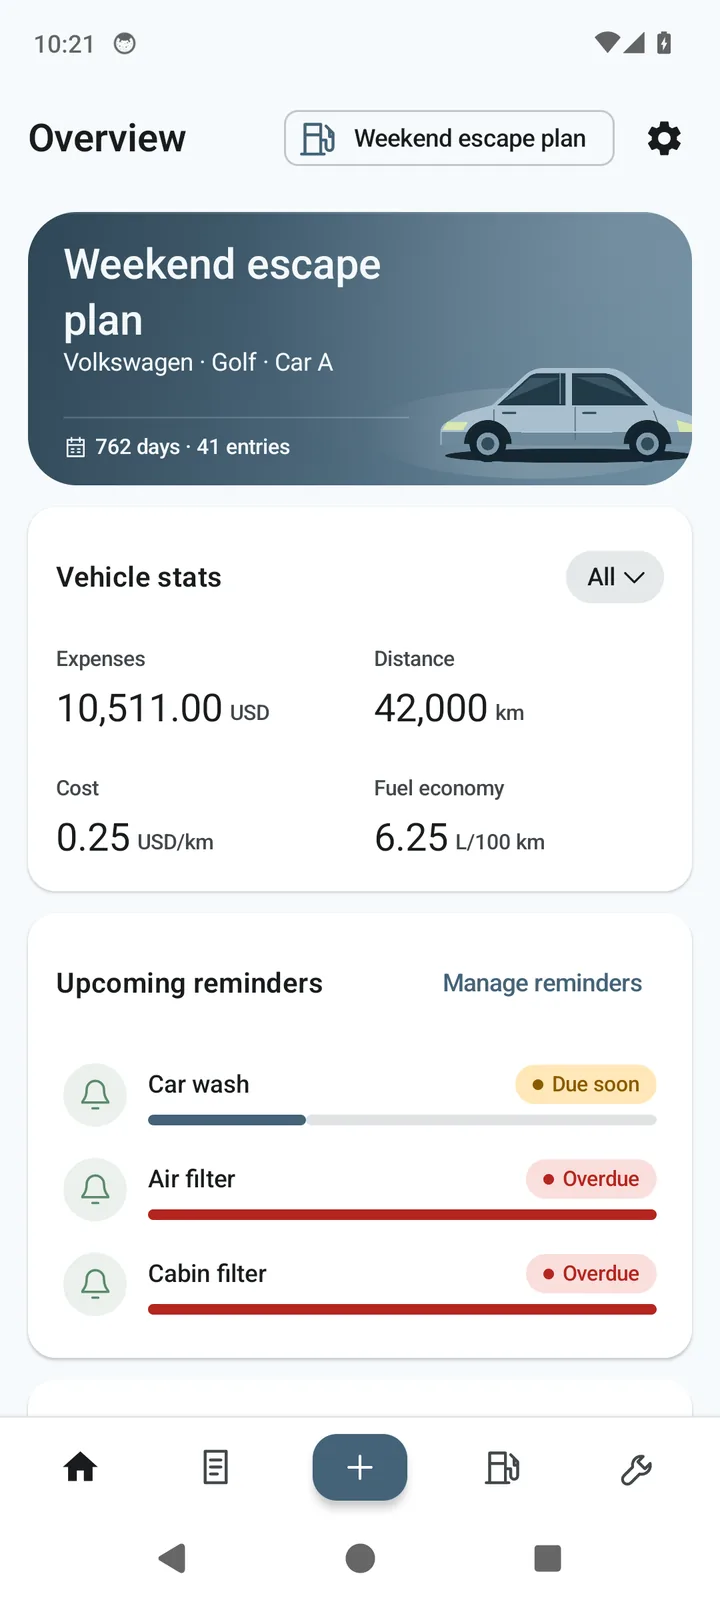
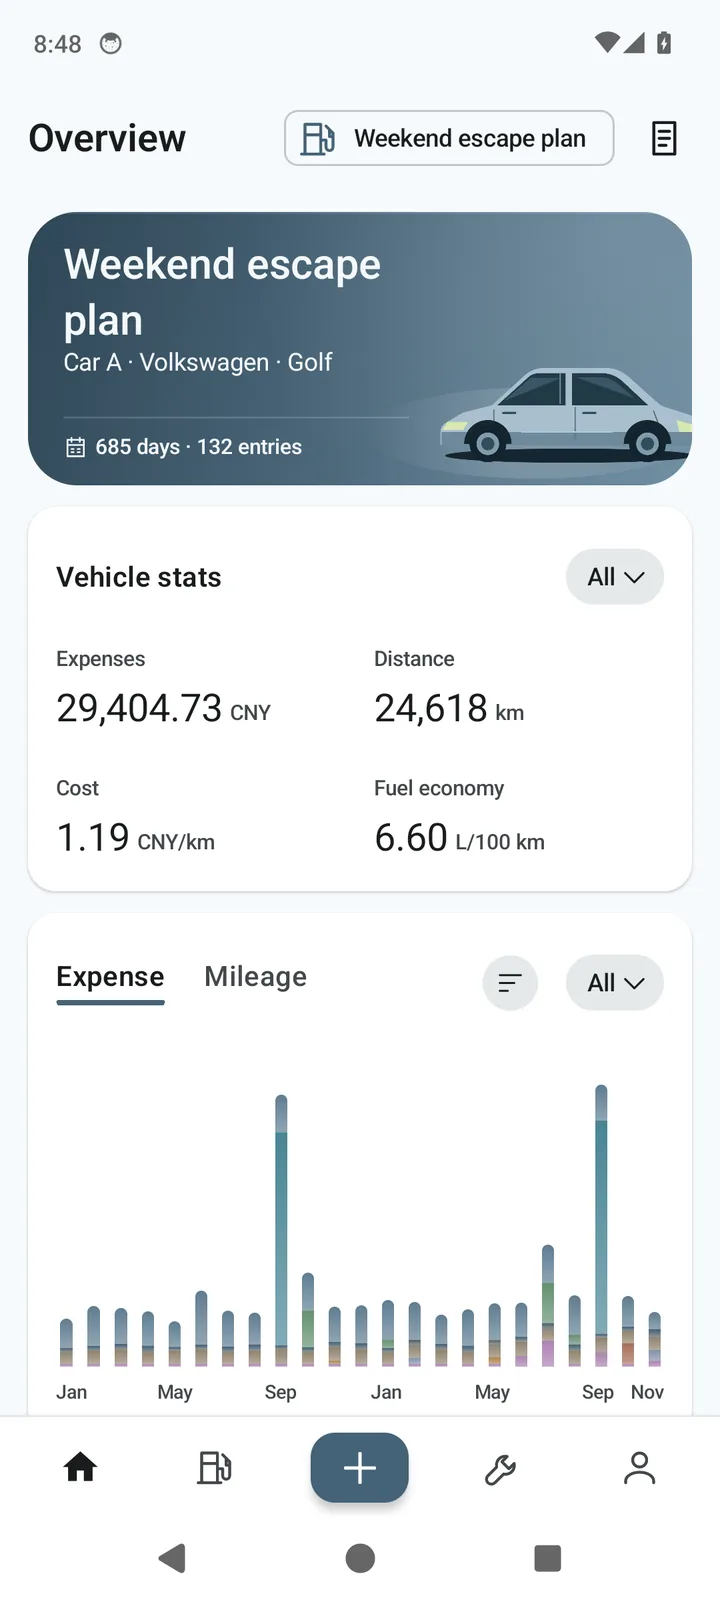
site(screens): 界面预览换成 0.44.1 实拍（中英各一套，第三张改用车报告）+ OG 重画

diff --git a/en/index.html b/en/index.html
@@ -53,7 +53,7 @@
   <link rel="icon" href="../assets/favicon-16.png" sizes="16x16" type="image/png">
   <link rel="apple-touch-icon" href="../assets/apple-touch-icon.png">
   <link rel="manifest" href="../site.webmanifest">
-  <link rel="preload" as="image" href="../assets/screens-en/dashboard.webp">
+  <link rel="preload" as="image" href="../assets/screens-en/dashboard.webp?v=20261116">
   <link rel="stylesheet" href="../assets/style.css?v=20261110c">
 
   <script type="application/ld+json">
@@ -121,7 +121,7 @@
 
         <div class="hero-visual">
           <figure class="phone phone-hero">
-            <img src="../assets/screens-en/dashboard.webp" width="720" height="1600" alt="MileNote overview screen with running costs, average fuel economy and maintenance reminders">
+            <img src="../assets/screens-en/dashboard.webp?v=20261116" width="720" height="1600" alt="MileNote overview screen with running costs, spending trend and average fuel economy">
           </figure>
         </div>
       </div>
@@ -180,7 +180,7 @@
         <div class="screen-tabs" role="tablist" aria-label="App screenshots">
           <button class="screen-tab" type="button" role="tab" aria-selected="true" data-screen="0">Overview</button>
           <button class="screen-tab" type="button" role="tab" aria-selected="false" data-screen="1">Quick entry</button>
-          <button class="screen-tab" type="button" role="tab" aria-selected="false" data-screen="2">Expenses</button>
+          <button class="screen-tab" type="button" role="tab" aria-selected="false" data-screen="2">Vehicle report</button>
           <button class="screen-tab" type="button" role="tab" aria-selected="false" data-screen="3">Maintenance</button>
         </div>
 
@@ -190,7 +190,7 @@
           </button>
           <figure class="screen-figure">
             <div class="phone phone-screen">
-              <img data-screen-img data-screen-base="../assets/screens-en/" src="../assets/screens-en/dashboard.webp" width="720" height="1600" alt="Overview screen">
+              <img data-screen-img data-screen-base="../assets/screens-en/" src="../assets/screens-en/dashboard.webp?v=20261116" width="720" height="1600" alt="Overview screen">
             </div>
             <figcaption data-screen-cap>Overview</figcaption>
           </figure>
@@ -251,6 +251,6 @@
     <span class="bar-copy">© <span id="year">2026</span> MileNote</span>
   </div>
 
-  <script src="../assets/app.js?v=20261110b" defer></script>
+  <script src="../assets/app.js?v=20261116" defer></script>
 </body>
 </html>

diff --git a/index.html b/index.html
@@ -53,7 +53,7 @@
   <link rel="icon" href="assets/favicon-16.png" sizes="16x16" type="image/png">
   <link rel="apple-touch-icon" href="assets/apple-touch-icon.png">
   <link rel="manifest" href="site.webmanifest">
-  <link rel="preload" as="image" href="assets/screens/dashboard.webp">
+  <link rel="preload" as="image" href="assets/screens/dashboard.webp?v=20261116">
   <link rel="stylesheet" href="assets/style.css?v=20261110c">
 
   <script type="application/ld+json">
@@ -121,7 +121,7 @@
 
         <div class="hero-visual">
           <figure class="phone phone-hero">
-            <img src="assets/screens/dashboard.webp" width="720" height="1600" alt="里程志「用车总览」界面：用车统计、平均油耗与保养到期待办">
+            <img src="assets/screens/dashboard.webp?v=20261116" width="720" height="1600" alt="里程志「用车总览」界面：用车统计、支出趋势与平均油耗">
           </figure>
         </div>
       </div>
@@ -180,7 +180,7 @@
         <div class="screen-tabs" role="tablist" aria-label="界面截图">
           <button class="screen-tab" type="button" role="tab" aria-selected="true" data-screen="0">用车总览</button>
           <button class="screen-tab" type="button" role="tab" aria-selected="false" data-screen="1">快速记账</button>
-          <button class="screen-tab" type="button" role="tab" aria-selected="false" data-screen="2">费用统计</button>
+          <button class="screen-tab" type="button" role="tab" aria-selected="false" data-screen="2">用车报告</button>
           <button class="screen-tab" type="button" role="tab" aria-selected="false" data-screen="3">维修保养</button>
         </div>
 
@@ -190,7 +190,7 @@
           </button>
           <figure class="screen-figure">
             <div class="phone phone-screen">
-              <img data-screen-img data-screen-base="assets/screens/" src="assets/screens/dashboard.webp" width="720" height="1600" alt="用车总览界面">
+              <img data-screen-img data-screen-base="assets/screens/" src="assets/screens/dashboard.webp?v=20261116" width="720" height="1600" alt="用车总览界面">
             </div>
             <figcaption data-screen-cap>用车总览</figcaption>
           </figure>
@@ -251,6 +251,6 @@
     <span class="bar-copy">© <span id="year">2026</span> 里程志 MileNote</span>
   </div>
 
-  <script src="assets/app.js?v=20261110b" defer></script>
+  <script src="assets/app.js?v=20261116" defer></script>
 </body>
 </html>

diff --git a/assets/app.js b/assets/app.js
@@ -194,15 +194,15 @@
     /* 资源前缀由页面给出（中文页 assets/screens/，英文页 ../assets/screens-en/） */
     var base = stageImg.getAttribute('data-screen-base') || '';
     var shots = EN ? [
-      { file: 'dashboard.webp', cap: 'Overview' },
-      { file: 'editor.webp', cap: 'Quick entry' },
-      { file: 'analytics.webp', cap: 'Expenses' },
-      { file: 'maintenance.webp', cap: 'Maintenance' }
+      { file: 'dashboard.webp?v=20261116', cap: 'Overview' },
+      { file: 'editor.webp?v=20261116', cap: 'Quick entry' },
+      { file: 'report.webp?v=20261116', cap: 'Vehicle report' },
+      { file: 'maintenance.webp?v=20261116', cap: 'Maintenance' }
     ] : [
-      { file: 'dashboard.webp', cap: '用车总览' },
-      { file: 'editor.webp', cap: '快速记账' },
-      { file: 'analytics.webp', cap: '费用统计' },
-      { file: 'maintenance.webp', cap: '维修保养' }
+      { file: 'dashboard.webp?v=20261116', cap: '用车总览' },
+      { file: 'editor.webp?v=20261116', cap: '快速记账' },
+      { file: 'report.webp?v=20261116', cap: '用车报告' },
+      { file: 'maintenance.webp?v=20261116', cap: '维修保养' }
     ];
     shots.forEach(function (shot) { shot.src = base + shot.file; });
 
